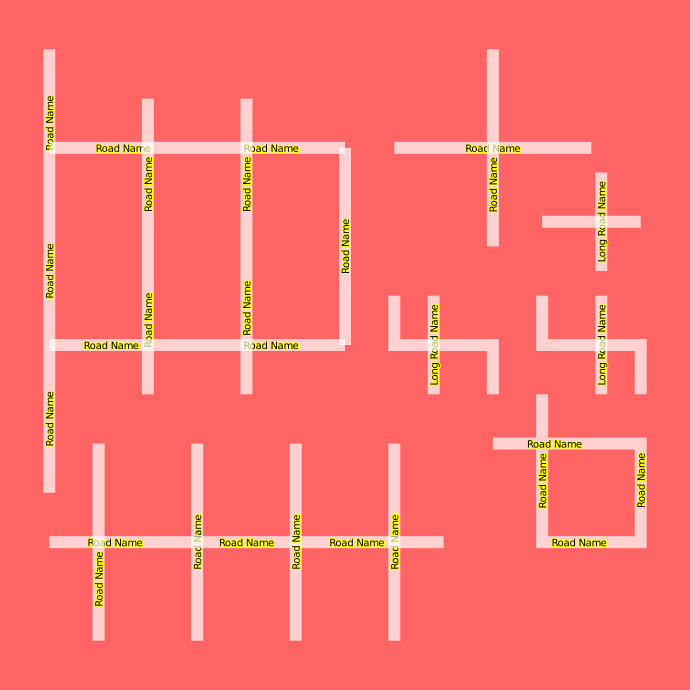
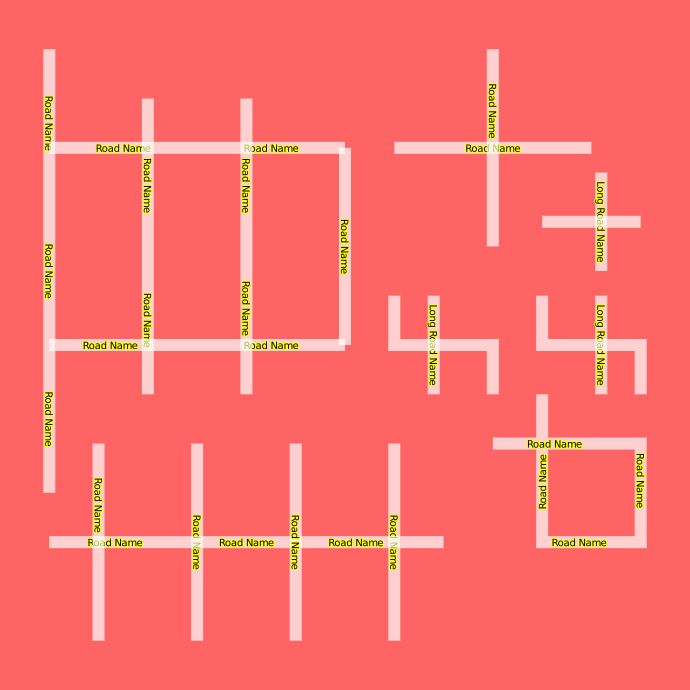
Actually convert the python tests - finishes #1460

diff --git a/tests/python_tests/text_line_rendering_test.py b/tests/python_tests/text_line_rendering_test.py
@@ -1,0 +1,165 @@
+#!/usr/bin/env python
+# -*- coding: utf-8 -*-
+
+from nose.tools import *
+from utilities import execution_path, run_all, Todo
+from mapnik import *
+
+def setup():
+    # All of the paths used are relative, if we run the tests
+    # from another directory we need to chdir()
+    os.chdir(execution_path('.'))
+
+
+def test_charplacement():
+    m = Map(690,690,"+proj=longlat +ellps=WGS84 +datum=WGS84 +no_defs")
+    m.background = Color(255,100,100,255)
+    road_style = Style()
+    road_rule = Rule()
+    road_stroke = Stroke(Color('white'), 1)
+    road_stroke.opacity = 0.7
+    road_rule.symbols.append(LineSymbolizer(road_stroke))
+    road_style.rules.append(road_rule);
+    text_symbolizer = TextSymbolizer(Expression('[NAME]'), 'DejaVu Sans Book', 20, Color('black'))
+    text_symbolizer.label_placement=label_placement.LINE_PLACEMENT
+    text_symbolizer.minimum_distance = 0
+    text_symbolizer.label_spacing = 20
+    text_symbolizer.label_position_tolerance = 50
+    text_symbolizer.minimum_distance = 5
+    text_symbolizer.avoid_edges = 0
+    text_symbolizer.halo_fill = Color('yellow')
+    text_symbolizer.halo_radius = 1
+    road_rule = Rule()
+    road_rule.symbols.append(text_symbolizer)
+    road_style.rules.append(road_rule)
+    road_layer = Layer('road')
+    road_layer.datasource = Shapefile(file='../data/shp/charplacement')
+    m.append_style('road', road_style)
+    road_layer.styles.append('road')
+    m.layers.append(road_layer)
+    m.zoom_to_box(Box2d(0,0,14,-14))
+    im = Image(m.width,m.height)
+    render(m, im)
+    actual = '/tmp/mapnik-char_placement.png'
+    expected = 'images/support/char_placement.png'
+    im.save(actual)
+    if not os.path.exists(expected):
+        print 'generating expected test image: %s' % expected
+        im.save(expected)
+    expected_im = Image.open(expected)
+    eq_(Image.open(actual).tostring('png32'),expected_im.tostring('png32'),'failed comparing actual (%s) and expected(%s)' % (actual,'tests/python_tests/'+ expected))
+
+def test_overlap():
+    m = Map(690,690,"+proj=longlat +ellps=WGS84 +datum=WGS84 +no_defs")
+    m.background = Color(255,100,100,255)
+    road_style = Style()
+    road_rule = Rule()
+    road_stroke = Stroke(Color('white'), 12)
+    road_stroke.opacity = 0.7
+    road_rule.symbols.append(LineSymbolizer(road_stroke))
+    road_style.rules.append(road_rule);
+    text_symbolizer = TextSymbolizer(Expression('[NAME]'), 'DejaVu Sans Book', 10, Color('black'))
+    text_symbolizer.label_placement=label_placement.LINE_PLACEMENT
+    text_symbolizer.minimum_distance = 0
+    text_symbolizer.label_spacing = 60
+    text_symbolizer.label_position_tolerance = 50
+    text_symbolizer.minimum_distance = 5
+    text_symbolizer.avoid_edges = 0
+    text_symbolizer.halo_fill = Color('yellow')
+    text_symbolizer.halo_radius = 1
+    road_rule = Rule()
+    road_rule.symbols.append(text_symbolizer)
+    road_style.rules.append(road_rule)
+    road_layer = Layer('road')
+    road_layer.datasource = Shapefile(file='../data/shp/overlap')
+    m.append_style('road', road_style)
+    road_layer.styles.append('road')
+    m.layers.append(road_layer)
+    m.zoom_to_box(Box2d(0,0,14,-14))
+    im = Image(m.width,m.height)
+    render(m, im)
+    actual = '/tmp/mapnik-overlap.png'
+    expected = 'images/support/overlap.png'
+    im.save(actual)
+    if not os.path.exists(expected):
+        print 'generating expected test image: %s' % expected
+        im.save(expected)
+    expected_im = Image.open(expected)
+    eq_(Image.open(actual).tostring('png32'),expected_im.tostring('png32'),'failed comparing actual (%s) and expected(%s)' % (actual,'tests/python_tests/'+ expected))
+
+def test_displacement():
+    m = Map(690,690,"+proj=longlat +ellps=WGS84 +datum=WGS84 +no_defs")
+    m.background = Color(255,100,100,255)
+    road_rule = Rule()
+    road_style = Style()
+    road_rule.symbols.append(LineSymbolizer(Stroke(Color("white"),.5)))
+    road_style.rules.append(road_rule);
+    text_symbolizer = TextSymbolizer(Expression('[NAME]'), 'DejaVu Sans Book', 10, Color('black'))
+    text_symbolizer.label_placement=label_placement.LINE_PLACEMENT
+    text_symbolizer.minimum_distance = 0
+    text_symbolizer.label_spacing = 60
+    text_symbolizer.label_position_tolerance = 5
+    text_symbolizer.avoid_edges = 0
+    text_symbolizer.halo_fill = Color('yellow')
+    text_symbolizer.halo_radius = 1
+    text_symbolizer.displacement = (0,5)
+    road_rule.symbols.append(text_symbolizer)
+    road_style.rules.append(road_rule)
+    road_layer = Layer('road')
+    road_layer.datasource = Shapefile(file='../data/shp/displacement')
+    m.append_style('road', road_style)
+    road_layer.styles.append('road')
+    m.layers.append(road_layer)
+    m.zoom_to_box(Box2d(0,0,14,-14))
+    im = Image(m.width,m.height)
+    render(m, im)
+    actual = '/tmp/mapnik-displacement.png'
+    expected = 'images/support/displacement.png'
+    im.save(actual)
+    if not os.path.exists(expected):
+        print 'generating expected test image: %s' % expected
+        im.save(expected)
+    expected_im = Image.open(expected)
+    eq_(Image.open(actual).tostring('png32'),expected_im.tostring('png32'),'failed comparing actual (%s) and expected(%s)' % (actual,'tests/python_tests/'+ expected))
+
+def test_textspacing():
+    m = Map(690,690,"+proj=longlat +ellps=WGS84 +datum=WGS84 +no_defs")
+    m.background = Color(255,100,100,255)
+    road_style = Style()
+    road_rule = Rule()
+    road_stroke = Stroke(Color('white'), 12)
+    road_stroke.line_cap = line_cap.ROUND_CAP
+    road_stroke.line_join = line_join.ROUND_JOIN
+    road_rule.symbols.append(LineSymbolizer(road_stroke))
+    road_style.rules.append(road_rule);
+    text_symbolizer = TextSymbolizer(Expression('[NAME]'), 'DejaVu Sans Book', 10, Color('black'))
+    text_symbolizer.label_placement=label_placement.LINE_PLACEMENT
+    text_symbolizer.minimum_distance = 0
+    text_symbolizer.label_spacing = 80
+    text_symbolizer.label_position_tolerance = 5
+    text_symbolizer.avoid_edges = 0
+    text_symbolizer.halo_fill = Color('yellow')
+    text_symbolizer.halo_radius = 1
+    road_rule = Rule()
+    road_rule.symbols.append(text_symbolizer)
+    road_style.rules.append(road_rule)
+    road_layer = Layer('road')
+    road_layer.datasource = Shapefile(file='../data/shp/textspacing')
+    m.append_style('road', road_style)
+    road_layer.styles.append('road')
+    m.layers.append(road_layer)
+    m.zoom_to_box(Box2d(0,0,14,-14))
+    im = Image(m.width,m.height)
+    render(m, im)
+    actual = '/tmp/mapnik-textspacing.png'
+    expected = 'images/support/textspacing.png'
+    im.save(actual)
+    if not os.path.exists(expected):
+        print 'generating expected test image: %s' % expected
+        im.save(expected)
+    expected_im = Image.open(expected)
+    eq_(Image.open(actual).tostring('png32'),expected_im.tostring('png32'),'failed comparing actual (%s) and expected(%s)' % (actual,'tests/python_tests/'+ expected))
+
+if __name__ == "__main__":
+    setup()
+    run_all(eval(x) for x in dir() if x.startswith("test_"))
